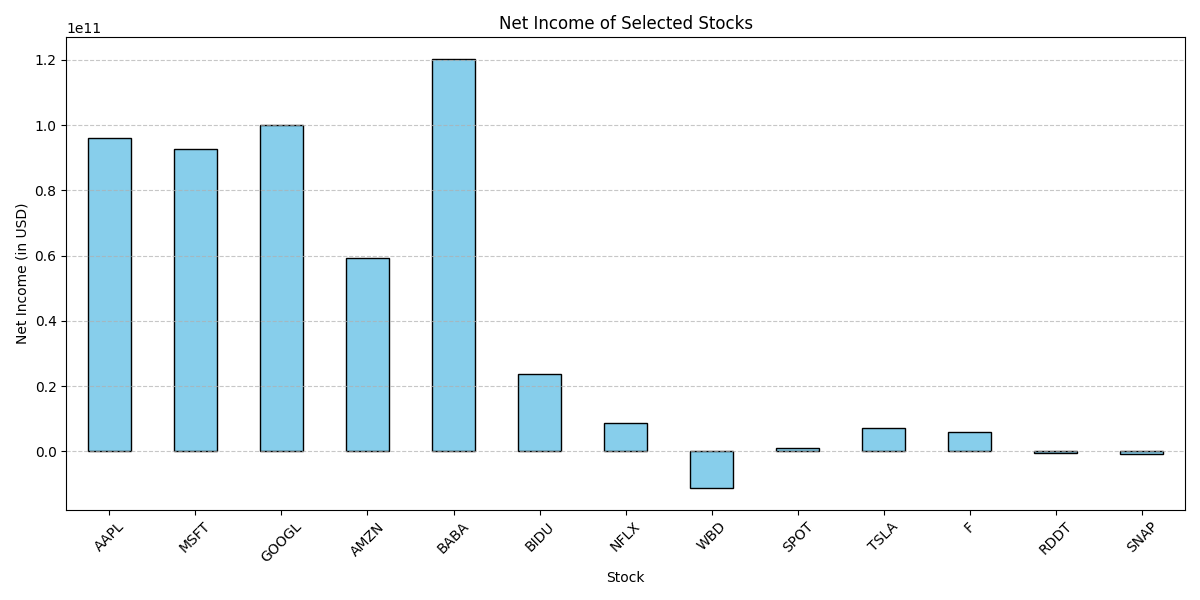
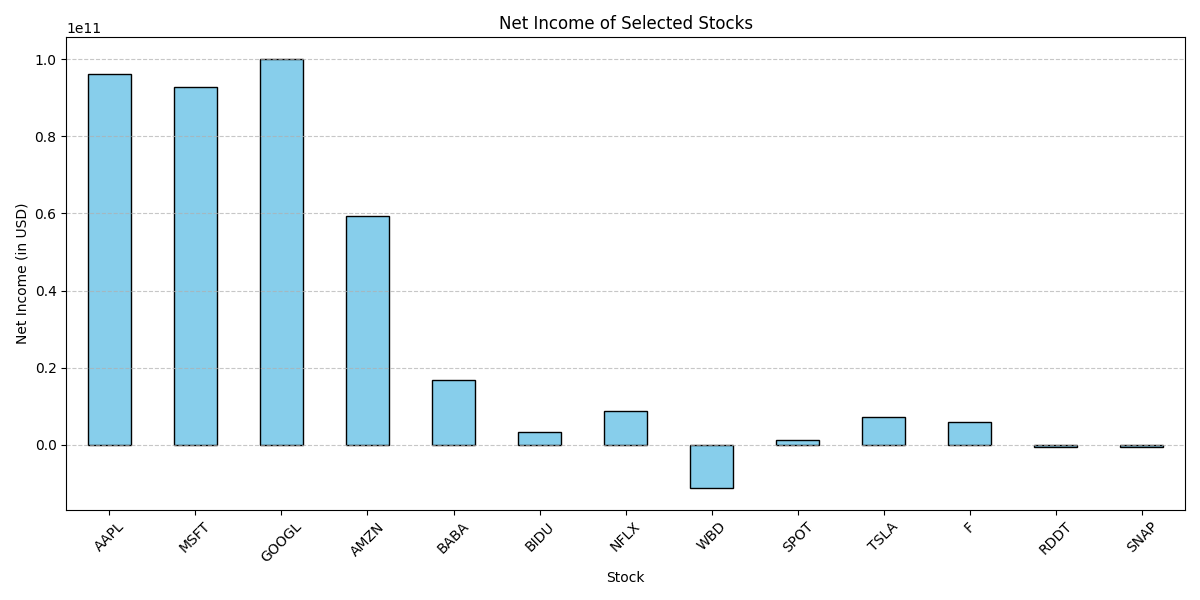
added conversion to usd from cny for chinese stocks

diff --git a/Analysis.py b/Analysis.py
@@ -11,21 +11,39 @@ def getStockInfo(ticker):
 
 
     try:
-            
+        is_chinese = False
+        if stockInfo["country"] == "China":
+            is_chinese = True
+
+        cny_to_usd = 0.1389
+        
+
+        # Convert values if Chinese stock
+        multiplier = cny_to_usd if is_chinese else 1
+        
+
+        # Apply conversion to financial metrics
+        market_cap = int(stockInfo.get("marketCap", 0) * multiplier)
+        free_cash_flow = int(stockInfo.get("freeCashflow", 0) * multiplier)
+        net_income = int(stockInfo.get("netIncomeToCommon", 0) * multiplier)
+        total_debt = int(stockInfo.get("totalDebt", 0) * multiplier)
+        
        
         stockData = {
-            "Market Cap": stockInfo["marketCap"],
-            "Free Cash Flow": stockInfo["freeCashflow"],    
-            "Free Cash Flow to Debt": stockInfo["freeCashflow"] / stockInfo["totalDebt"] if stockInfo["totalDebt"] != 0 else 0,
-            "Net Income": stockInfo["netIncomeToCommon"],
-            "Total Debt": stockInfo["totalDebt"],
-            "Current Price": stockInfo["currentPrice"],
-            "52 Week Range": stockInfo["fiftyTwoWeekRange"],
-            "52 Week High Change": stockInfo["fiftyTwoWeekHighChange"],
-            "Return on Equity": stockInfo["returnOnEquity"],
-            "Held by Institutions": stockInfo["heldPercentInstitutions"] * 100,
-            "Held by Insiders": stockInfo["heldPercentInsiders"] * 100,
-            "Forward P/E": stockInfo["forwardPE"],
+            "Market Cap": market_cap,
+            "Free Cash Flow": free_cash_flow,    
+            "Free Cash Flow to Debt": free_cash_flow / total_debt if total_debt != 0 else 0,
+            "Net Income": net_income,
+            "Total Debt": total_debt,
+            "Current Price": stockInfo.get("currentPrice", 0),  # Stock price is typically shown in local currency
+            "52 Week Range": stockInfo.get("fiftyTwoWeekRange", "N/A"),
+            "52 Week High Change": stockInfo.get("fiftyTwoWeekHighChange", 0),
+            "Return on Equity": stockInfo.get("returnOnEquity", 0),
+            "Held by Institutions": stockInfo.get("heldPercentInstitutions", 0) * 100,
+            "Held by Insiders": stockInfo.get("heldPercentInsiders", 0) * 100,
+            "Forward P/E": stockInfo.get("forwardPE", 0),
+            "Currency": "USD (Converted)" if is_chinese else "USD"
+
         }
         return stockData
     except Exception as e:
@@ -50,7 +68,7 @@ def plotData(stockDf, passedVal):
     
 def main():
     # Create a Stock object
-    stocks = ["AAPL", "MSFT", "GOOGL", "AMZN", "BABA", "BIDU", "NFLX", "WBD", "SPOT", "TSLA", "F", "RDDT", "SNAP"]
+    stocks = ["AAPL", "MSFT", "GOOGL", "AMZN", "BABA", "BIDU", "NFLX", "WBD", "SPOT", "TSLA", "F", "RDDT", "SNAP", "UBER"]
     stockData= {}
     for stock in stocks:
         stockData[stock] = getStockInfo(stock)
@@ -63,6 +81,7 @@ def main():
     plotData(stockDf, "Total Debt")
     plotData(stockDf, "Free Cash Flow to Debt")
 
+    print(stockDf)
 
 
 
